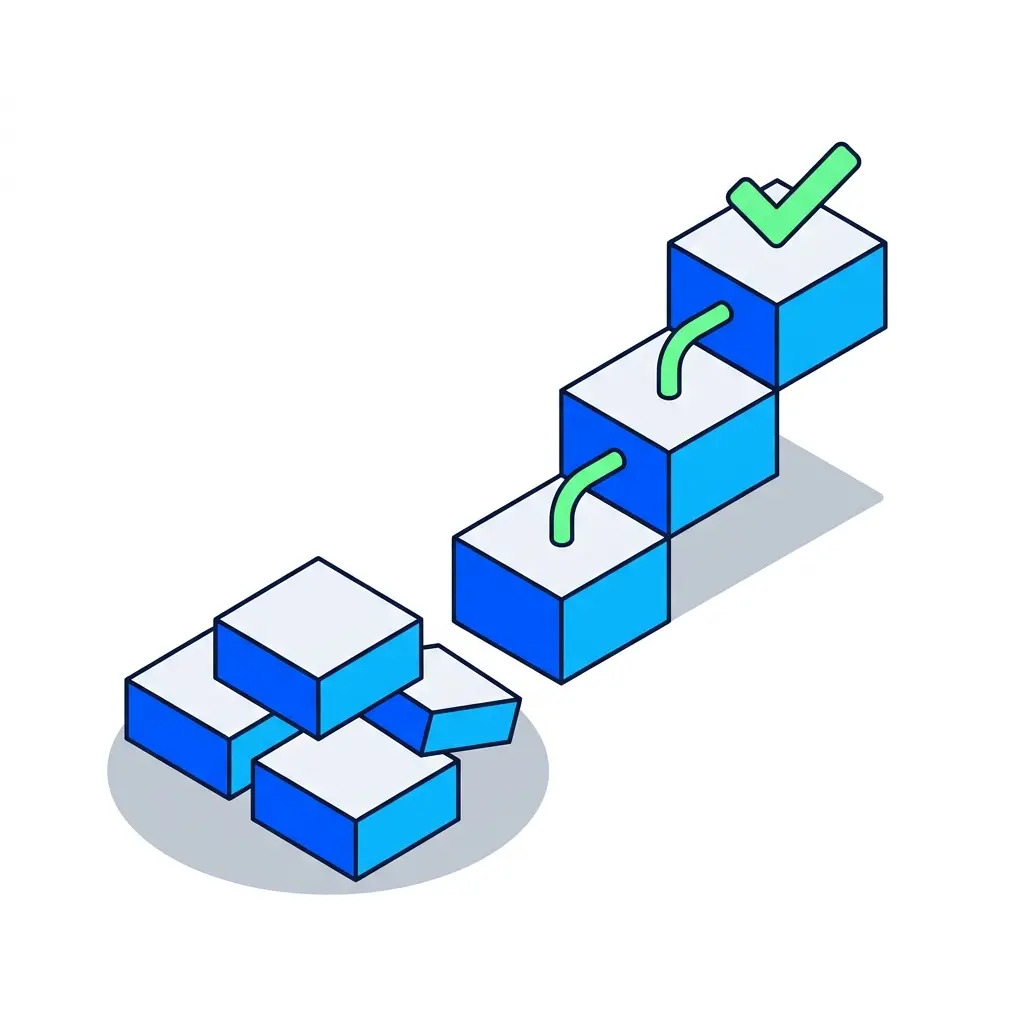
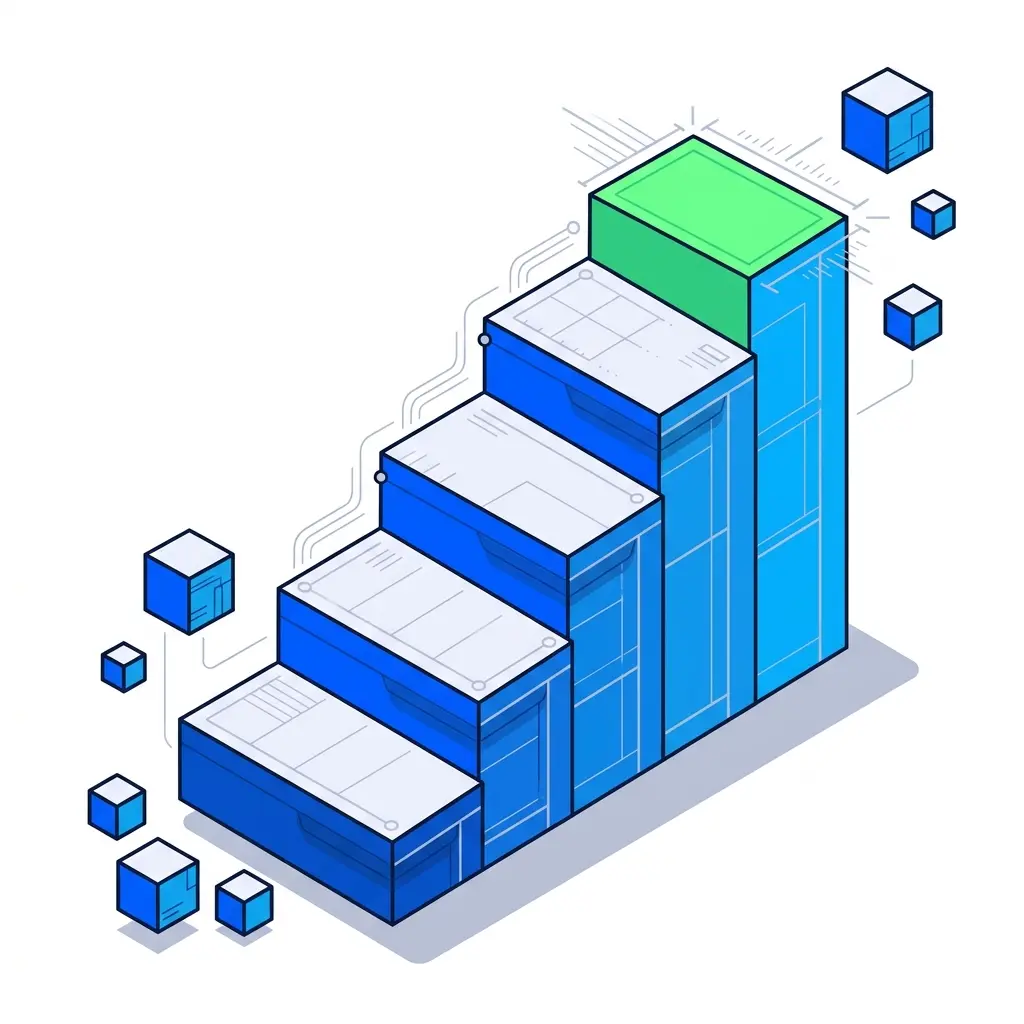
fix: rename data-health-check hero1.webp to hero.webp, update deliverables.webp

diff --git a/app/[locale]/services/data-health-check/page.tsx b/app/[locale]/services/data-health-check/page.tsx
@@ -96,7 +96,7 @@ export default async function DataHealthCheckPage() {
         headlineBlue={tHero("headlineBlue")}
         description={tHero("description")}
         cta={{ label: tHero("cta"), href: "/contact" }}
-        imageSrc="/services/data-strategy/data-health-check/hero1.webp"
+        imageSrc="/services/data-strategy/data-health-check/hero.webp"
         imageAlt={tHero("imageAlt")}
       />
 
